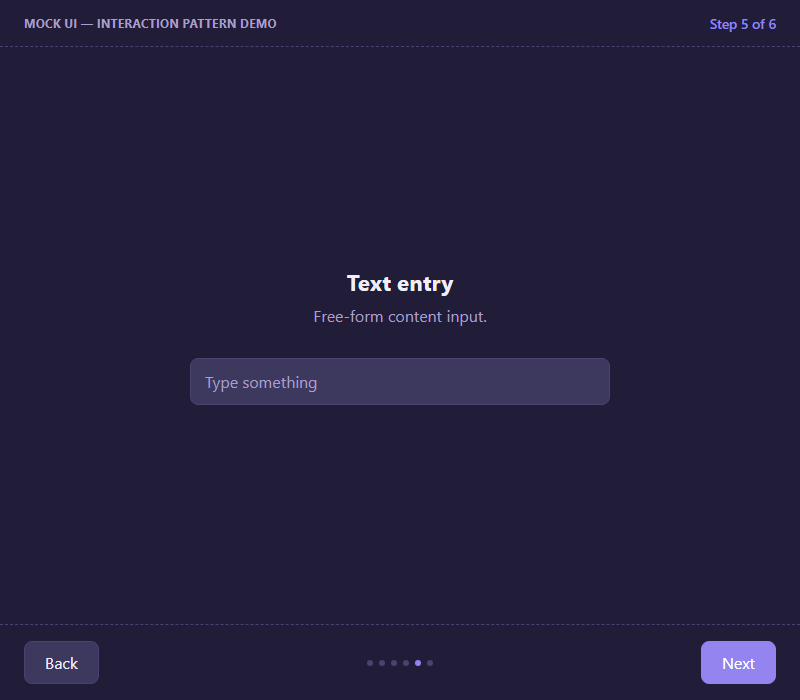
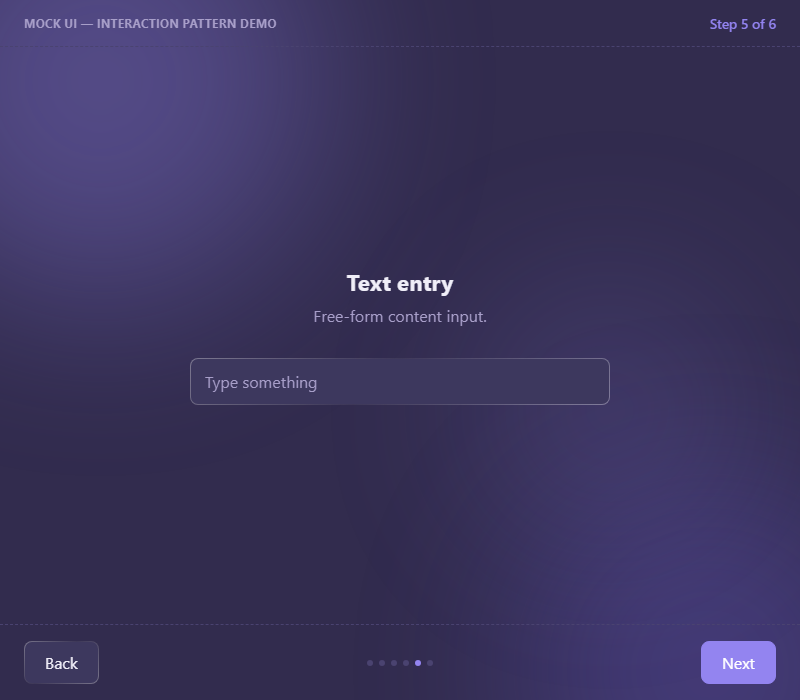
Add shiny gradient borders and ambient glow blobs
- Surfaces (cards, panels, inputs, buttons) now use a diagonal
  gradient border that reads as light catching the top-left edge,
  instead of a flat single-color border.
- Background moved closer to the surface color so content areas
  read as part of the same palette rather than a separate block.
- Added three blurred, slowly-drifting glow blobs behind all content
  for ambient depth on the otherwise flat dark background.

diff --git a/code/mock/style.css b/code/mock/style.css
@@ -1,5 +1,5 @@
 :root {
-  --bg: #211d38;
+  --bg: #322c4e;
   --surface: #3d385e;
   --surface-2: #4a4470;
   --text: #f0eef8;
@@ -7,9 +7,54 @@
   --accent: #9384f0;
   --accent-contrast: #ffffff;
   --border: #4a4370;
+  --shine: rgba(255, 255, 255, 0.35);
+  --shine-dim: rgba(255, 255, 255, 0.06);
+  --surface-shine: linear-gradient(var(--surface), var(--surface)) padding-box,
+    linear-gradient(135deg, var(--shine), var(--shine-dim) 45%, var(--shine) 100%) border-box;
   --danger: #ff6b8a;
   --radius: 10px;
 }
+
+/* Ambient glow blobs — decorative, fixed behind all content. */
+.glow {
+  position: fixed;
+  border-radius: 50%;
+  filter: blur(90px);
+  pointer-events: none;
+  z-index: 0;
+}
+.glow-1 {
+  width: 440px; height: 440px;
+  top: -140px; left: -120px;
+  background: var(--accent);
+  opacity: 0.35;
+  animation: glow-float-1 16s ease-in-out infinite;
+}
+.glow-2 {
+  width: 380px; height: 380px;
+  bottom: -160px; right: -100px;
+  background: #6f5fd8;
+  opacity: 0.3;
+  animation: glow-float-2 20s ease-in-out infinite;
+}
+.glow-3 {
+  width: 260px; height: 260px;
+  top: 40%; left: 60%;
+  background: var(--accent);
+  opacity: 0.18;
+  animation: glow-float-1 24s ease-in-out infinite reverse;
+}
+
+@keyframes glow-float-1 {
+  0%, 100% { transform: translate(0, 0); }
+  50% { transform: translate(40px, 30px); }
+}
+@keyframes glow-float-2 {
+  0%, 100% { transform: translate(0, 0); }
+  50% { transform: translate(-30px, -40px); }
+}
+
+#top, main, #nav { position: relative; z-index: 1; }
 
 * { box-sizing: border-box; }
 
@@ -25,6 +70,7 @@ html, body {
 body {
   display: flex;
   flex-direction: column;
+  overflow-x: hidden;
 }
 
 #top {
@@ -84,8 +130,8 @@ button, input, textarea {
 
 .btn {
   border-radius: 8px;
-  border: 1px solid var(--border);
-  background: var(--surface);
+  border: 1px solid transparent;
+  background: var(--surface-shine);
   padding: 10px 20px;
   cursor: pointer;
   color: var(--text);
@@ -109,9 +155,9 @@ button, input, textarea {
 }
 
 .menu-card {
-  border: 1px solid var(--border);
-  background: var(--surface);
   border-radius: var(--radius);
+  border: 1px solid transparent;
+  background: var(--surface-shine);
   padding: 28px 20px;
   cursor: pointer;
   text-align: left;
@@ -149,8 +195,8 @@ input[type="range"] { flex: 1; accent-color: var(--accent); }
 .pattern-card {
   aspect-ratio: 1;
   border-radius: var(--radius);
-  border: 2px solid var(--border);
-  background: var(--surface);
+  border: 1px solid transparent;
+  background: var(--surface-shine);
   display: flex;
   align-items: center;
   justify-content: center;
@@ -191,8 +237,9 @@ input[type="range"] { flex: 1; accent-color: var(--accent); }
 }
 
 .tab-panel {
-  border: 1px dashed var(--border);
   border-radius: var(--radius);
+  border: 1px solid transparent;
+  background: var(--surface-shine);
   padding: 24px;
   color: var(--muted);
   width: 100%;
@@ -204,8 +251,8 @@ input[type="range"] { flex: 1; accent-color: var(--accent); }
   width: 100%;
   height: 220px;
   border-radius: var(--radius);
-  border: 1px dashed var(--border);
-  background: var(--surface);
+  border: 1px solid transparent;
+  background: var(--surface-shine);
 }
 
 .pointfield .marker {
@@ -250,9 +297,9 @@ input[type="range"] { flex: 1; accent-color: var(--accent); }
 .field input, .field textarea {
   width: 100%;
   border-radius: 8px;
-  border: 1px solid var(--border);
+  border: 1px solid transparent;
+  background: var(--surface-shine);
   padding: 12px 14px;
-  background: var(--surface);
   color: var(--text);
 }
 
@@ -300,9 +347,9 @@ input[type="range"] { flex: 1; accent-color: var(--accent); }
   justify-content: space-between;
   align-items: center;
   padding: 14px 16px;
-  border: 1px solid var(--border);
   border-radius: var(--radius);
-  background: var(--surface);
+  border: 1px solid transparent;
+  background: var(--surface-shine);
   margin-bottom: 10px;
   cursor: pointer;
 }

diff --git a/code/mock/index.html b/code/mock/index.html
@@ -7,6 +7,9 @@
   <link rel="stylesheet" href="style.css" />
 </head>
 <body>
+  <div class="glow glow-1" aria-hidden="true"></div>
+  <div class="glow glow-2" aria-hidden="true"></div>
+  <div class="glow glow-3" aria-hidden="true"></div>
   <header id="top">
     <span class="label">Mock UI — Interaction Pattern Demo</span>
     <span class="step-indicator" id="step-indicator"></span>
